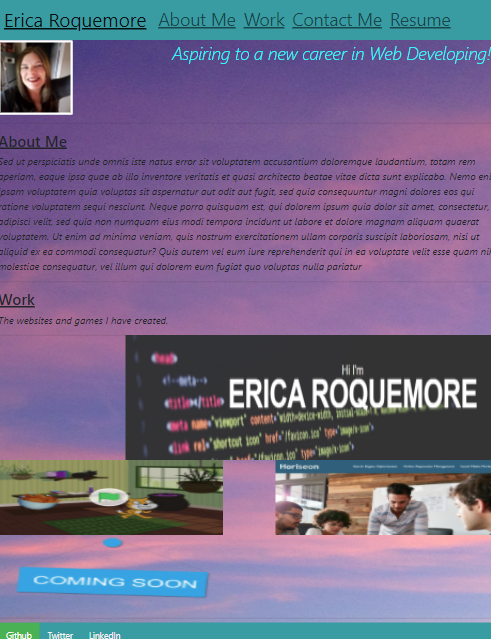
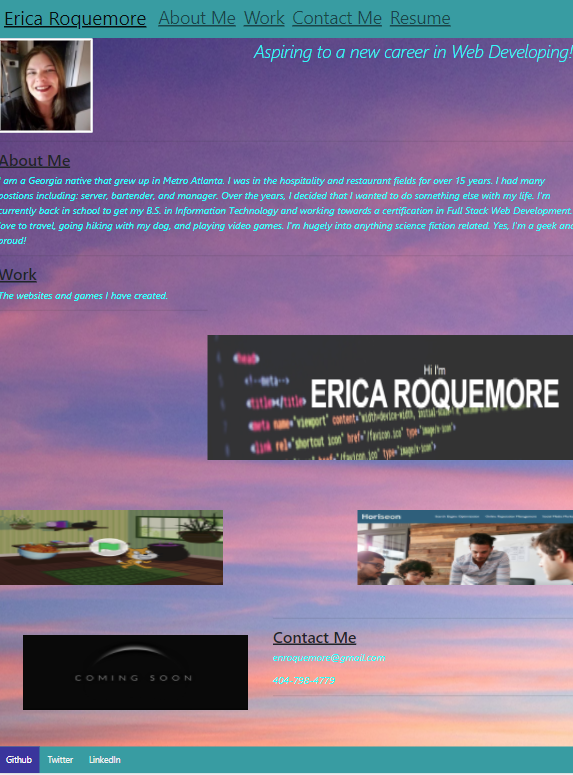
updated resume and about me section

diff --git a/index.html b/index.html
@@ -50,7 +50,7 @@
       <!-- About Me Section -->
             <section id="about-me" class="about">
             <h2>About Me</h2>
-            <p>Sed ut perspiciatis unde omnis iste natus error sit voluptatem accusantium doloremque laudantium, totam rem aperiam, eaque ipsa quae ab illo inventore veritatis et quasi architecto beatae vitae dicta sunt explicabo. Nemo enim ipsam voluptatem quia voluptas sit aspernatur aut odit aut fugit, sed quia consequuntur magni dolores eos qui ratione voluptatem sequi nesciunt. Neque porro quisquam est, qui dolorem ipsum quia dolor sit amet, consectetur, adipisci velit, sed quia non numquam eius modi tempora incidunt ut labore et dolore magnam aliquam quaerat voluptatem. Ut enim ad minima veniam, quis nostrum exercitationem ullam corporis suscipit laboriosam, nisi ut aliquid ex ea commodi consequatur? Quis autem vel eum iure reprehenderit qui in ea voluptate velit esse quam nihil molestiae consequatur, vel illum qui dolorem eum fugiat quo voluptas nulla pariatur</p>
+            <p>I am a Georgia native that grew up in Metro Atlanta. I was in the hospitality and restaurant fields for over 15 years. I had many postions including: server, bartender, and manager.  Over the years, I decided that I wanted to do something else with my life.  I'm currently back in school to get my B.S. in Information Technology and working towards a certification in Full Stack Web Development.  I love to travel, going hiking with my dog, and playing video games. I'm highly into anything Science Fiction related. Yes, I'm a geek and proud!</p>
           </section>
       <!-- Work Section -->
           <hr>
@@ -60,7 +60,7 @@
             <p>The websites and games I have created.</p>
             <a href="https://ericaroq.github.io/prework-about-me">
             <img src="images\first.website.png" alt="My First Website" style="vertical-align:middle;margin:50px 0px;float:right;width:750px;height:250px;">
-                        </a>
+                       </a>
            </section>
           
             <hr>

diff --git a/assets/style.css b/assets/style.css
@@ -22,6 +22,7 @@ body {
     font-size: 35px;
     color: aqua;
     float: right;
+    
 }
 /* About Me Section */
 h2 {
@@ -32,6 +33,7 @@ h2 {
 p {
     font-style: italic;
     font-size: 20px;
+    color:aqua
 }
 
 /* Places the navbar at the bottom of the page, and makes it stick */
